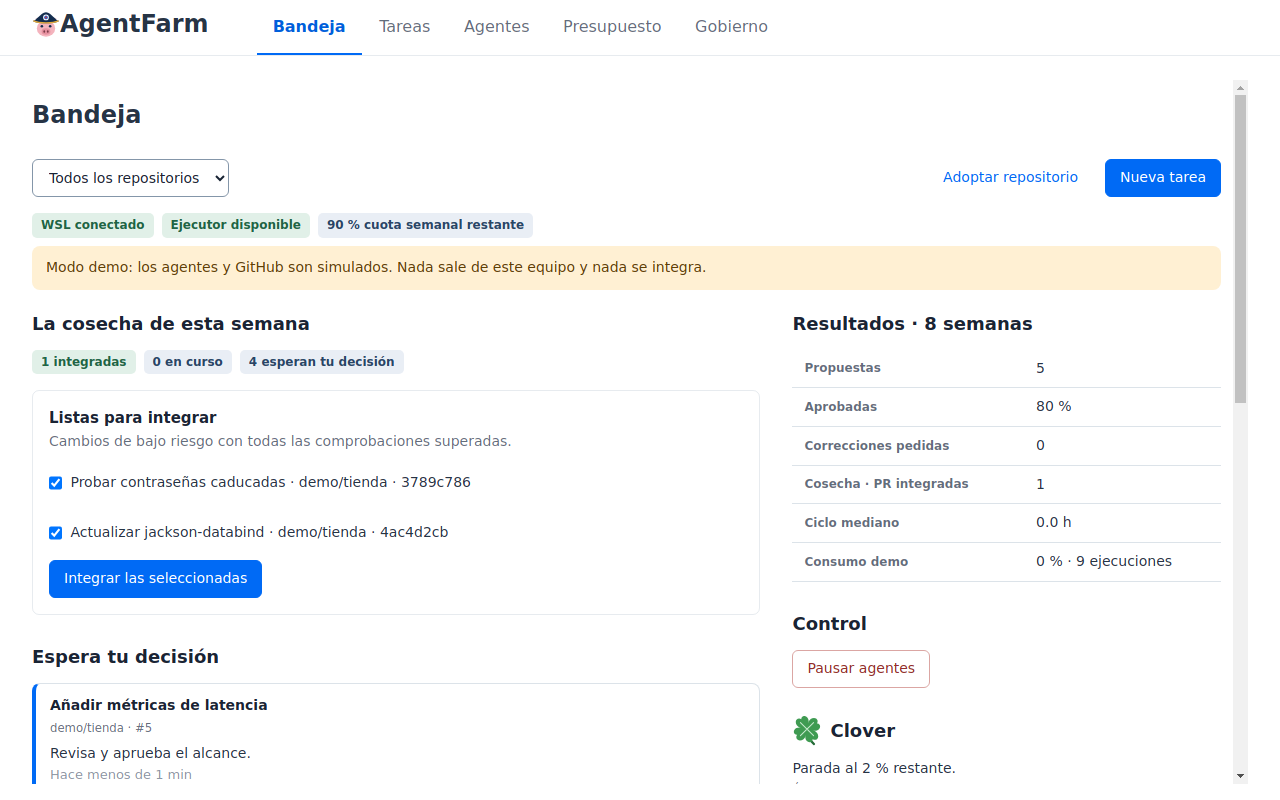
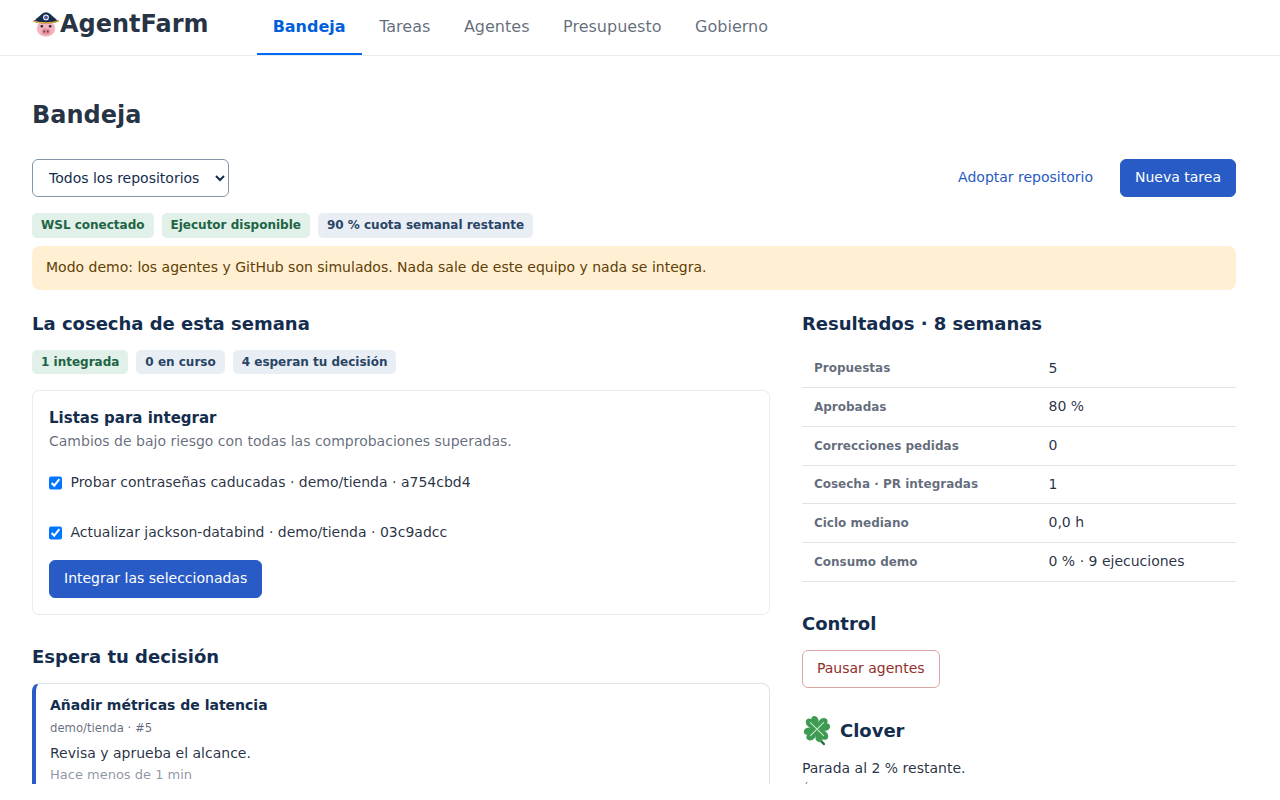
[#131] La web pública ofrece una acción clara en la primera pantalla (#133)
Claude-Session: https://claude.ai/code/session_01U5MmdV2ZmUxMHvuKZyVeLK

diff --git a/site/index.html b/site/index.html
@@ -31,11 +31,16 @@ header { display: flex; align-items: center; gap: 10px; padding: 18px 0; font-we
 header img { width: 34px; height: 34px; }
 header nav { margin-left: auto; display: flex; gap: 18px; font-weight: 500; font-size: 15px; }
 h1, h2 { font-family: Georgia, "Times New Roman", serif; line-height: 1.12; letter-spacing: -0.01em; }
-h1 { font-size: clamp(42px, 8vw, 76px); margin: 36px 0 16px; max-width: 13ch; }
+h1 { font-size: clamp(34px, 8vw, 76px); margin: 36px 0 16px; text-wrap: balance; }
+h2 { text-wrap: balance; }
 h2 { font-size: clamp(28px, 5vw, 42px); margin: 0 0 18px; }
 .lead { font-size: clamp(18px, 2.6vw, 22px); color: var(--muted); max-width: 40em; margin: 0 0 26px; }
 .try { display: flex; flex-wrap: wrap; gap: 12px; align-items: center; margin-bottom: 8px; }
 pre { margin: 0; background: var(--code); color: var(--code-ink); padding: 14px 18px; border-radius: 8px; overflow-x: auto; font-size: 15px; line-height: 1.5; max-width: 100%; }
+pre code { white-space: pre-wrap; overflow-wrap: anywhere; }
+#copy { min-height: 44px; padding: 10px 18px; background: var(--action); color: var(--action-ink); border: 0; border-radius: 8px; font: 700 16px/1.2 system-ui, sans-serif; cursor: pointer; }
+#copy:hover { filter: brightness(1.1); }
+@media (max-width: 480px) { header { font-size: 15px; } .wrap, .wall { padding-left: 20px; padding-right: 20px; } #copy { width: 100%; } }
 .button { display: inline-block; background: var(--action); color: var(--action-ink); padding: 12px 20px; border-radius: 8px; font-weight: 600; text-decoration: none; }
 .note { color: var(--muted); font-size: 15px; margin: 8px 0 0; }
 figure { margin: 40px 0 0; }
@@ -49,7 +54,7 @@ section { padding: 64px 0 0; }
 @media (prefers-color-scheme: dark) { :root:not([data-theme="light"]) .steps li::before { color: var(--gold); } }
 .steps strong { display: block; margin-bottom: 4px; }
 .wall { background: var(--barn); color: var(--barn-ink); padding: 44px 16px; margin-top: 64px; }
-.wall h2 { font-size: clamp(30px, 6vw, 52px); }
+.wall h2 { font-size: clamp(26px, 6vw, 52px); }
 .wall ol { max-width: 44em; padding-left: 1.4em; font: 700 clamp(18px, 2.6vw, 23px)/1.4 Georgia, serif; }
 .wall li { margin-bottom: 10px; }
 .wall p { max-width: 44em; }
@@ -76,8 +81,9 @@ footer { padding: 64px 0 40px; color: var(--muted); font-size: 15px; }
   <h1>Deja de mantener tus repos.</h1>
   <p class="lead">Conecta una granja de agentes de código. Vigilan la CI y las dependencias, proponen arreglos y te traen cada cambio con sus pruebas. Tú solo decides qué entra.</p>
   <div class="try">
-    <pre><code>git clone https://github.com/alejbormeg/AgentFarm.git
+    <pre><code id="demo-commands">git clone https://github.com/alejbormeg/AgentFarm.git
 cd AgentFarm &amp;&amp; ./agentfarm demo</code></pre>
+    <button type="button" id="copy" hidden aria-live="polite">Copiar las órdenes</button>
   </div>
   <p class="note">Un minuto, con agentes y GitHub simulados. Necesitas JDK 21, git y python3. Nada sale de tu equipo.</p>
   <figure>
@@ -145,5 +151,18 @@ cd AgentFarm &amp;&amp; ./agentfarm demo</code></pre>
 <div class="wrap">
   <footer>AgentFarm toma sus personajes de <cite>Rebelión en la granja</cite>, de George Orwell. No tiene relación con sus herederos ni con sus editoriales.</footer>
 </div>
+<script>
+// Only a browser that can copy sees the button; the commands stay readable and selectable either way.
+(() => {
+  const button = document.getElementById("copy");
+  if (!navigator.clipboard) return;
+  button.hidden = false;
+  button.addEventListener("click", async () => {
+    await navigator.clipboard.writeText(document.getElementById("demo-commands").textContent);
+    button.textContent = "Copiadas";
+    setTimeout(() => (button.textContent = "Copiar las órdenes"), 2000);
+  });
+})();
+</script>
 </body>
 </html>
